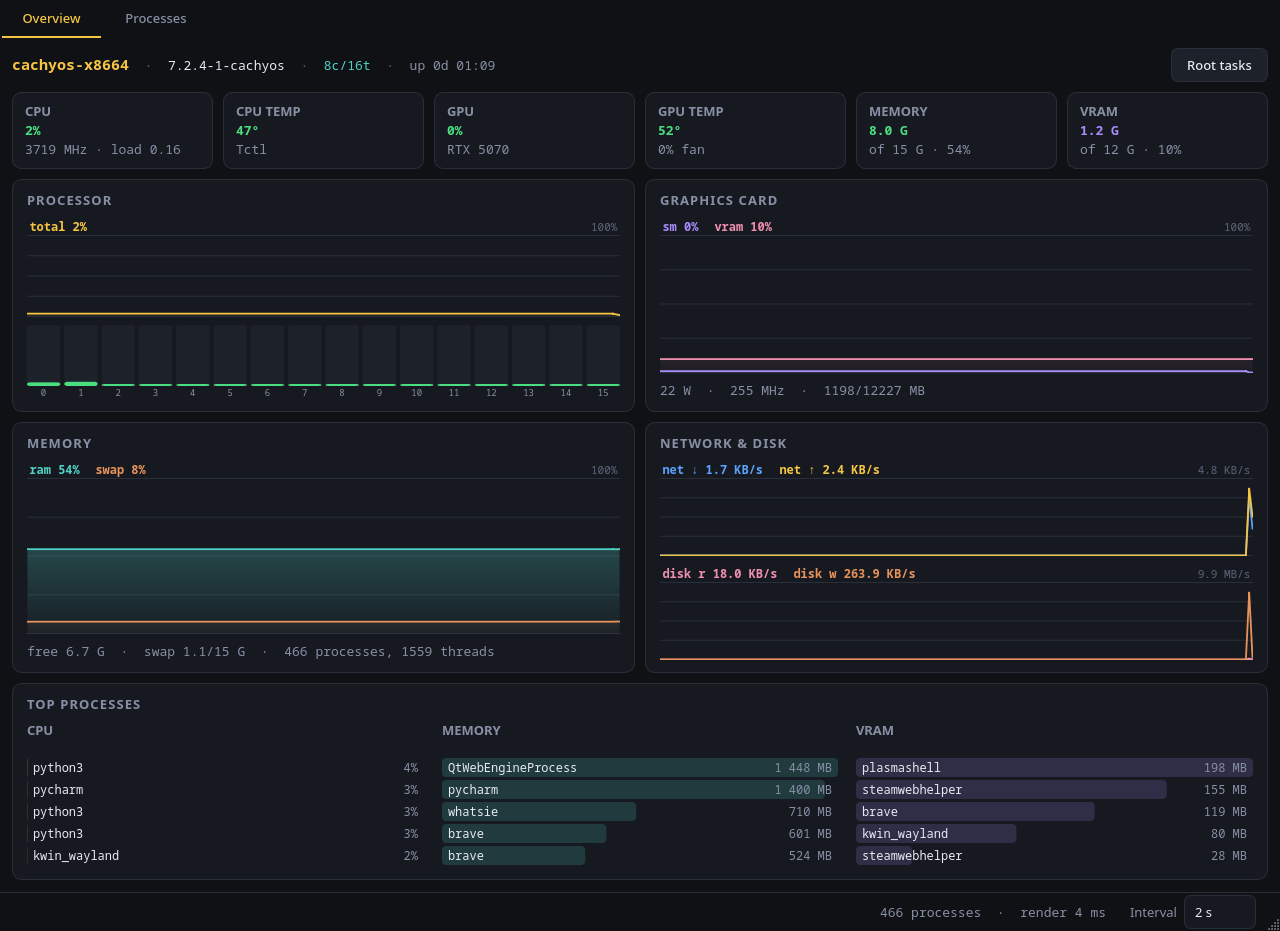
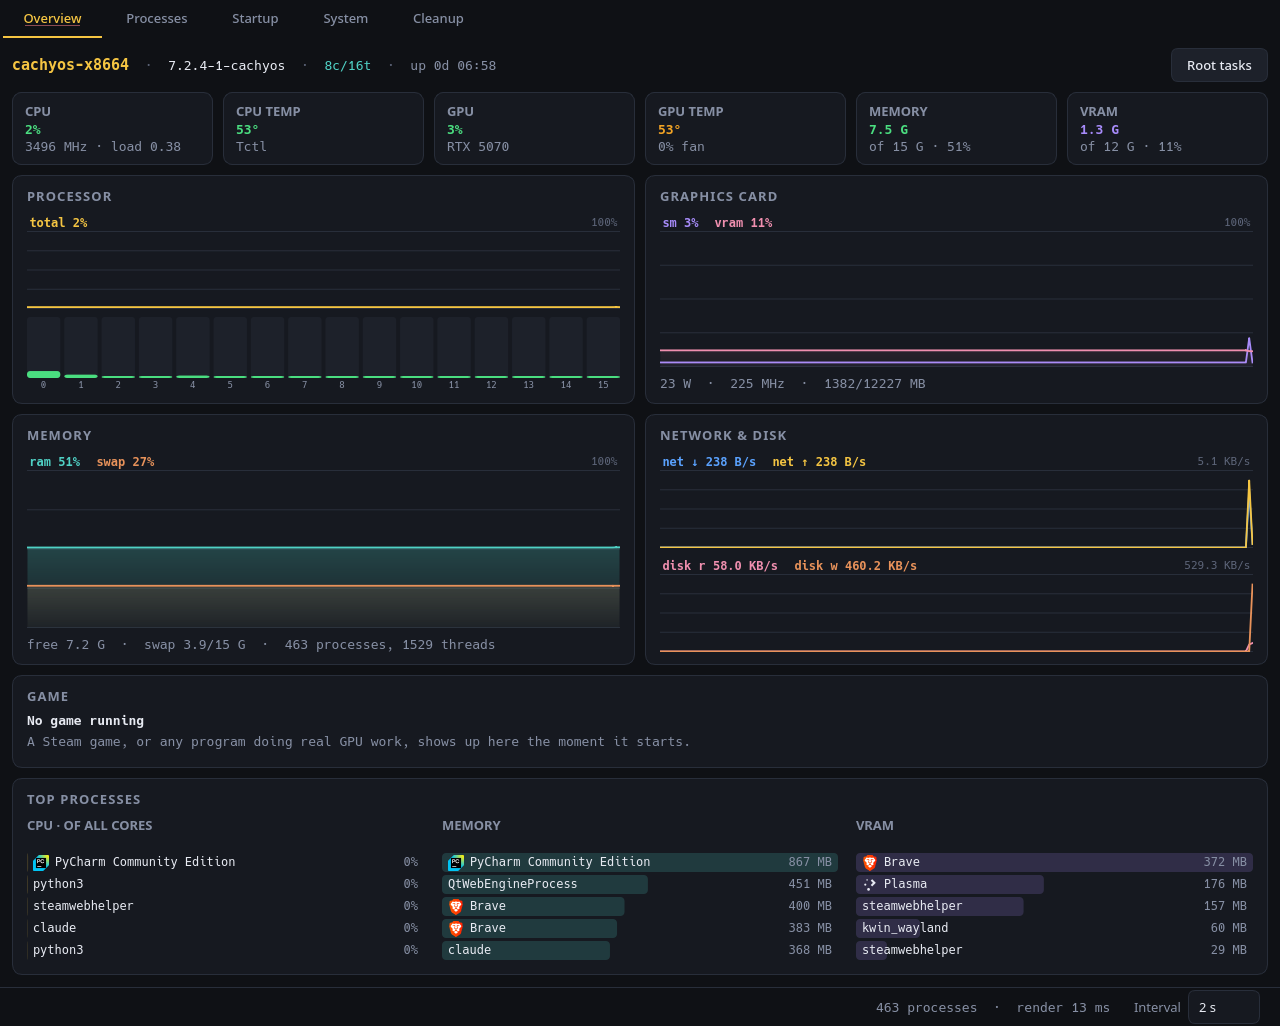
README: fresh screenshots of every tab and the widget
Claude-Session: https://claude.ai/code/session_01FYwAnZQ9Vi3kmGZpgCeadF

diff --git a/README.md b/README.md
@@ -19,15 +19,36 @@ the same measurement core:
 
 ## Screenshots
 
-**Overview** — CPU, GPU, memory and I/O at a glance, plus the heaviest processes.
+**Overview** — the machine at a glance: CPU per core, GPU, memory, network and
+disk, the running game, and the heaviest programs.
 
 ![Overview tab](docs/overview.png)
 
-**Processes** — the full list with CPU, memory, per-process GPU usage, nice and disk I/O. Right-click a row to terminate, suspend, renice or pin it to cores.
+**Processes** — your programs as a tree with real names and icons, a collapsed
+program showing the totals of its whole tree, and the last minutes of whatever
+you select underneath. Right-click to terminate, suspend, renice or pin to cores.
 
 ![Processes tab](docs/processes.png)
 
-**Widget** — the Plasma plasmoid, fed by the agent, so it keeps working when the GUI is closed.
+**Startup** — what starts when you log in, with a switch per entry, what each
+one does, and whether it is running now. Parts of the desktop are marked
+"keep on".
+
+![Startup tab](docs/startup.png)
+
+**System** — the specs on one card, from motherboard and BIOS to disks and
+network, with "Copy as text" for a forum post.
+
+![System tab](docs/system.png)
+
+**Cleanup** — caches, shader caches, thumbnails, old package versions and old
+logs, each with its size and why it is safe to remove. Nothing goes until you
+tick, press and confirm.
+
+![Cleanup tab](docs/cleanup.png)
+
+**Widget** — the Plasma plasmoid, fed by the agent, so it keeps working when
+the GUI is closed.
 
 <img src="docs/widget.png" width="320" alt="Plasma widget">
 
